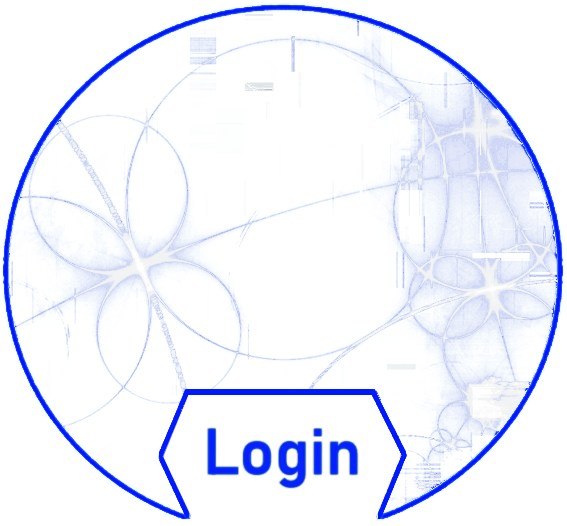
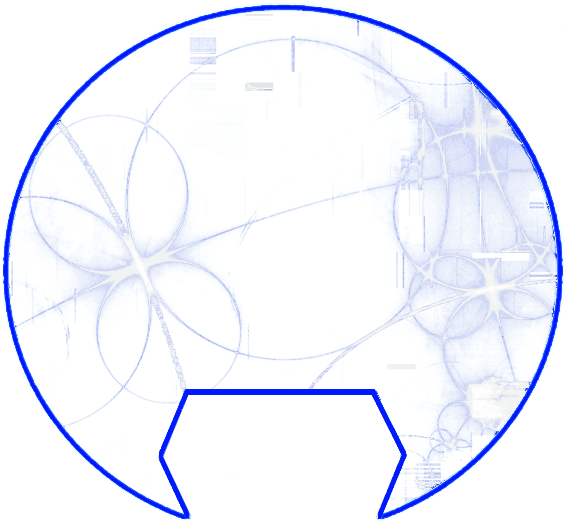
welcome page v0.1

Changed region(s): [[0.3598, 0.7909, 0.6296, 0.943]]

diff --git a/cybering/cybering-app/src/app/welcome_page/welcome-page.component.html b/cybering/cybering-app/src/app/welcome_page/welcome-page.component.html
@@ -1,58 +1,84 @@
-<div class="container" style="min-height: 100%; min-width: 100%;">
-	<div class="intro-nav">
-		
-
-	</div>
-
-
-
-
-	<div class="img-login-top">
-		<div class="img-login">
-			<img src="assets/loginv0.png" class="img-fluid" alt="Round image with login button">
-			
-			<div class="img-login-welcome">
-				<p class="h1 welcome-name">Cy<span class="next-color">bering</span></p>
-				<p class="h1 welcome-msg">Welcomes you</p>
+<div class="container-fluid base-grid">
+	<div class="container-fluid welcome-navbar">
+		<div class="row">
+			<div class="col-3">
+				<div class="row row-cols-auto">
+					<div class="col">
+						<div class="logo-img-div">
+							<a class="navbar-logo-link " href="/">
+								<img class="logo-img" src="favicon.ico" alt="logo" width="30px" height="30px">
+							</a>
+						</div>
+					</div>
+					<div class="col">
+						<div class="logo-text-div">
+							<a class="navbar-logo-link" href="/">
+								<p class="logo-text">Cybering</p>
+							</a>
+						</div>
+					</div>
+				</div>
 			</div>
+			<div class="col-5">Col5</div>
+			<div class="col-2">
+				<div class="register-div">
+					<a class="register-link" href="/register">
+						<p class="register-text">Join now</p>
+					</a>
+				</div>
+			</div>
+			<div class="col-2">
+		
+					<div class="fullsignin-div">
+						<a class="fullsignin-link" href="/fullsignin">
+							<p class="fullsignin-text">Sign in</p>
+						</a>
+					</div>
 
-			<form class="login-form">
-				<div class="mb-3 email-div">
-					<label for="loginInputEmail" class="form-label">Email:</label>
-					<input type="email" class="form-control" id="loginInputEmail">
-				</div>
-				<div class="mb-3 password-div">
-					<label for="loginInputPassword" class="form-label">Password:</label>
-					<input type="password" class="form-control" id="loginInputPassword">
-				</div>
-				<a href="#" class="link-secondary forgot-password">Forgot password?</a>
-				<button type="submit" class="btn login-button bg-transparent" [routerLink]="['/login']"></button>
-			</form>
+		
+			</div>
 		</div>
 	</div>
 
+	<div class="container login-container">
+		<div class="row first-row">
+			<div class="col first-col">
+				Column1
+			</div>
+			<div class="col second-col">
+				<div class="login-image-form">
+					<img src="assets/loginv0.png" class="img-fluid login-image" alt="Round image with login form">
 
+					<div class="login-welcome-form">
+						<p class="h1 welcome-name">Cy<span class="black-color">bering</span></p>
+						<p class="h1 welcome-msg">Welcomes you</p>
 
+						<div class="login-form">
+							<div class="mb-3 email-div">
+								<label for="loginInputEmail" class="form-label">Email</label>
+								<input type="email" class="form-control input-sm" id="loginInputEmail">
+							</div>
 
+							<div class="mb-3 password-div">
+								<label for="loginInputPassword" class="form-label">Password</label>
+								<input type="password" class="form-control input-sm" id="loginInputPassword">
+							</div>
+							<div class="forg-pass-div">
+								<a href="#" class="link-secondary forgot-password">Forgot password?</a>
 
-<!----
+							</div>
+							<div class="submit-div">
+								<button type="submit" class="btn login-button bg-translate"
+									[routerLink]="['/login']">Sign In</button>
+							</div>
 
+						</div>
 
+					</div>
+				</div>
+			</div>
+		</div>
 
-	<nav>
-		<a class="button" [routerLink]="['/register']" routerLinkActive="activebutton">Register</a>
-	</nav>
-	<div class="title-in-image">
-		<figure>
-			<blockquote class="blockquote">
-				<p class="h1">Cybering</p>
-			</blockquote>
-			<figcaption class="blockquote-footer">
-				Connect, Apply, Hire <cite title="Source Title">Fast and Easy</cite>
-			</figcaption>
-		</figure>
 	</div>
-
---->
 
 </div>

diff --git a/cybering/cybering-app/src/app/welcome_page/welcome-page.component.css b/cybering/cybering-app/src/app/welcome_page/welcome-page.component.css
@@ -1,76 +1,190 @@
-.container {
+.base-grid {
+	min-width: 100%;
+	min-height: 100%;
+	background-color: white;
+	margin: 0;
+	padding: 0;
+}
+
+.logo-text-div {
+	position:relative;
+	top: 10%;
+	font-weight: bolder;
+	font-size: 1.5rem;
+}
+
+
+.fullsignin-div {
+	position: absolute;
+	top: 2%;
+	right: 5%;
+
+}
+
+
+.fullsignin-link {
+	text-decoration: none;
+	color: cornflowerblue;
+	font-weight: bold;
+	font-size: 1rem;
+	display: inline;
+}
+
+.fullsignin-div a {
+	border: 2px solid white;
+}
+
+.fullsignin-text {
+	display: inline;
+}
+
+.navbar-logo-link {
+		text-decoration: none;
+		color: aqua;
+}
+
+.logo-img-div {
+	position: relative;
+	top: 25%;
+}
+
+.welcome-navbar {
+	background-color: black;
+	width: 100%;
+	height: 3rem;
+}
+
+.logo-text {
+	display: inline;
+}
+
+.black-color {
+	color: black;
+}
+
+.white-color {
+	color: white;
+}
+
+.blue-color {
+    color: blue;
+}
+
+
+.first-row {
+	background-color: aqua;
+}
+
+.first-col {
+	background-color: blueviolet;
+}	
+
+.second-col {
 	background-color: white;
 }
 
-.img-login-top {
-	position: absolute;
-	left: 50%;
-	width: 50%;
-	height: 100%;
-	overflow: auto;
+
+.login-image {
+	width: 100%;
+	display: block;
 }
 
-.img-login img {
+.login-image-form {
+	position: relative;
+	display: inline-block;
+}
+
+.login-welcome-form {
 	position: absolute;
 	top: 10%;
-	left: 10%;
-}
-
-.img-login .login-button {
-	position: absolute;
-	top: 53%;
-	left: 28%;
-	width: 23%;
-	height: 12%;
-}
-
-.img-login-welcome {
-	position: absolute;
-	top: 15%;
-	left: 27.5%;
+	left: 50%;
+	bottom: 0%;
+	transform: translate( -50%, -10% );
+    text-align: center;
+    color: blue;
+	font-weight: bold;
+	width: 100%;
 }
 
 .welcome-name {
 	position: relative;
-	left: 18%;
-	color: blue;
-
+	top: 5%;
+	font-size: 3vw;
 }
 
-.next-color {
-	color: black;
-}
+
 
 .welcome-msg {
 	color: black;
-	position: relative;
-	left: 0%;
+	font-size: 3vw;
+}
+
+
+.login-form {
+	width: 100%;
+	height: 100%;
 }
 
 .email-div {
+	font-size: 1vw;
+	width: 100%;
 	position: absolute;
-	top: 27%;
-	left: 20%;
-	width: 40%;
-}
-
-.login-form {
-	font-weight: 600;
+	color: black;
+	bottom: 50%;
 }
 
 .password-div {
+	font-size: 1vw;
+	width: 100%;
 	position: absolute;
-	top: 37%;
-	left: 20%;
-	width: 40%;
+	color: black;
+	bottom: 30%;
 }
 
-.forgot-password {
+.email-div input {
+	width: 22vw;
+	height: 2.5vw;
+	position: relative;
+	display: block;
+	margin: 0 auto;
+}
+
+.password-div input {
+	width: 22vw;
+	height: 2.5vw;
+	position: relative;
+	display: block;
+	margin: 0 auto;
+}
+
+.forg-pass-div  {
+	font-size: 1.1vw;
 	position: absolute;
-	top: 45%;
-	left: 47%;
+	width: 100%;
+	right: 20%;
+	bottom: 27%;
+	text-align: right;
+	margin: 0 auto;
 	font-weight: 400;
 }
 
+.submit-div {
+	position: absolute;
+	bottom: 0%;
+	text-align: center;
+	width: 100%;
+	height: 14%;
+}
 
+.submit-div button {
+	width: max-content;
+	height: 100%;
+	font-size: 3vw;
+	color: blue;
+	font-weight: bold;
+}
+
+.submit-div button:hover {
+	color: aqua;
+}
 

diff --git a/cybering/cybering-app/src/styles.css b/cybering/cybering-app/src/styles.css
@@ -2,6 +2,6 @@
 
 html, body {
     height: 100%;
-     margin: 0;
-     width: 100%;
+    width: 100%;
 }
+
